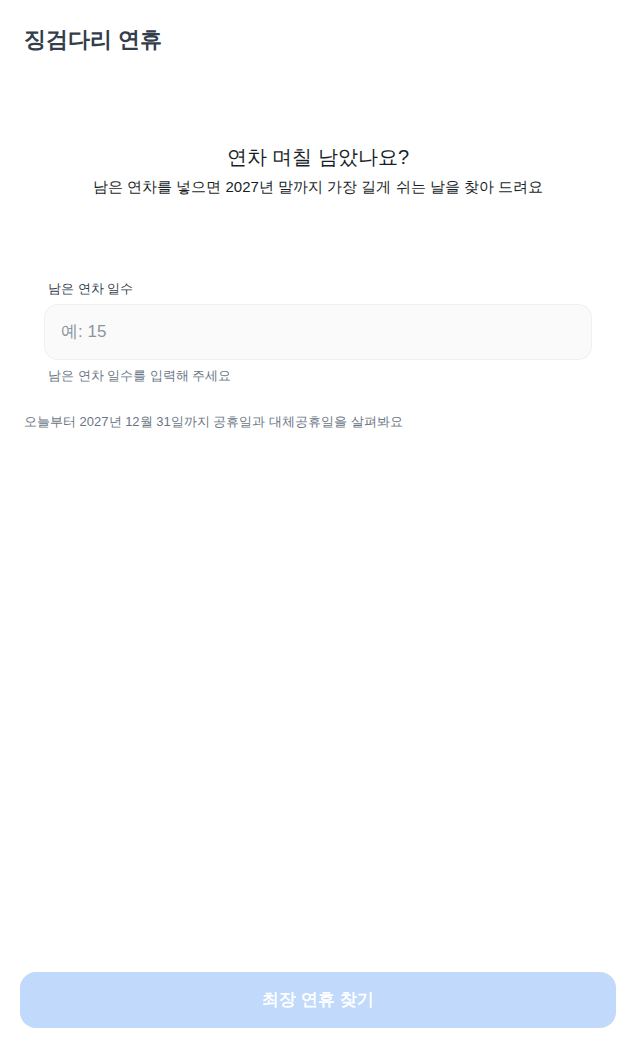
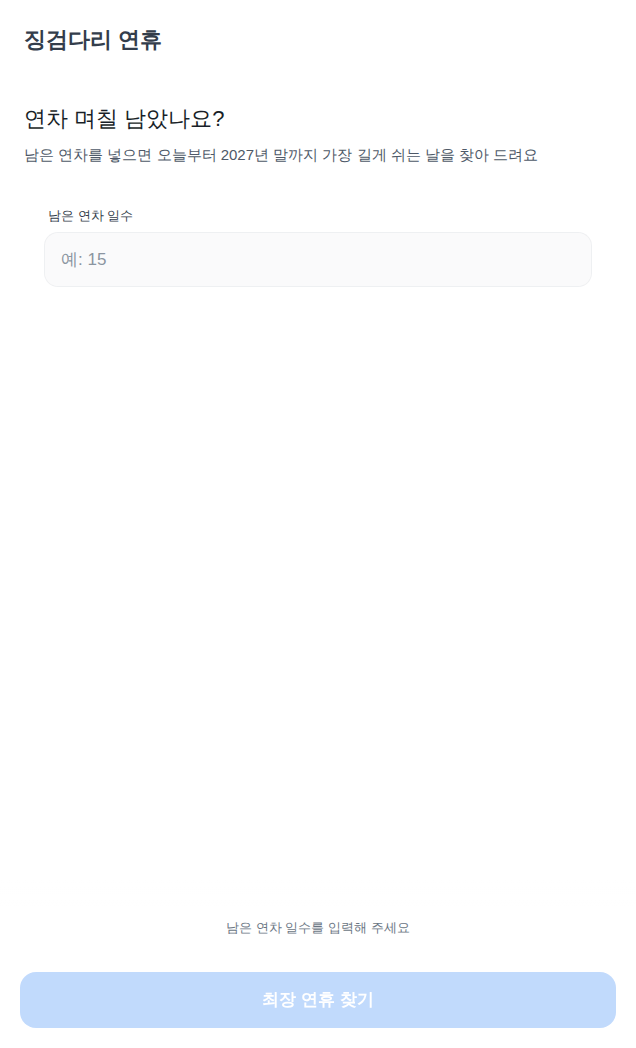
fix: visual UI improvements (round 1)

diff --git a/src/pages/Result.tsx b/src/pages/Result.tsx
@@ -1,6 +1,7 @@
 import { useContext, useEffect, useState } from "react";
 import { Navigate, UNSAFE_LocationContext } from "react-router-dom";
-import { Asset, Badge, Button, Chip, ChipItem, ListRow, Paragraph, Spacing, Top } from "@toss/tds-mobile";
+import { CalendarDays } from "lucide-react";
+import { Badge, Button, Chip, ChipItem, ListRow, Paragraph, Spacing, Top } from "@toss/tds-mobile";
 import { generateHapticFeedback } from "@apps-in-toss/web-framework";
 import { Amount } from "@/components/Amount";
 import { SubmitFooter } from "@/components/BottomCTA";
@@ -163,7 +164,7 @@ export default function Result() {
       <ScreenScaffold top={top} bottom={<SubmitFooter aria-label="연차 입력하러 가기" label="연차 입력하러 가기" onClick={goHomeWithHaptic} />}>
         <EmptyState
           centered
-          icon={<Asset.ContentIcon name="iconStarRegular" alt="" style={{ width: 48, height: 48 }} />}
+          icon={<CalendarDays size={48} aria-hidden="true" color="var(--adaptiveGrey500)" />}
           title="아직 계산한 연휴가 없어요"
           description="남은 연차를 입력하면 연휴를 찾아 드려요"
         />
@@ -179,7 +180,7 @@ export default function Result() {
       <ScreenScaffold top={top} bottom={<SubmitFooter aria-label="다시 입력하기" label="다시 입력하기" onClick={goHomeWithHaptic} />}>
         <EmptyState
           centered
-          icon={<Asset.ContentIcon name="iconStarRegular" alt="" style={{ width: 48, height: 48 }} />}
+          icon={<CalendarDays size={48} aria-hidden="true" color="var(--adaptiveGrey500)" />}
           title="계산할 수 있는 연휴가 없어요"
           description="연차 일수를 바꿔서 다시 찾아볼 수 있어요"
         />

diff --git a/src/components/BottomCTA.tsx b/src/components/BottomCTA.tsx
@@ -84,7 +84,7 @@ function hasHint(hint: ReactNode): boolean {
 function SubmitFooterHint({ children }: { children: ReactNode }) {
   return (
     <div data-testid="submit-footer-hint" style={{ textAlign: "center", paddingBottom: 8 }}>
-      <Paragraph.Text typography="t7" color="var(--adaptiveGrey600)">
+      <Paragraph.Text typography="t7" color="var(--adaptiveGrey800)">
         {children}
       </Paragraph.Text>
     </div>

diff --git a/src/pages/Home.tsx b/src/pages/Home.tsx
@@ -128,7 +128,7 @@ export default function Home() {
       ) : null}
       <Spacing size={24} />
 
-      <form onSubmit={onFormSubmit} noValidate>
+      <form onSubmit={onFormSubmit} noValidate style={{ margin: "0 -20px" }}>
         <TextField
           variant="box"
           aria-label="남은 연차 일수(일)"
